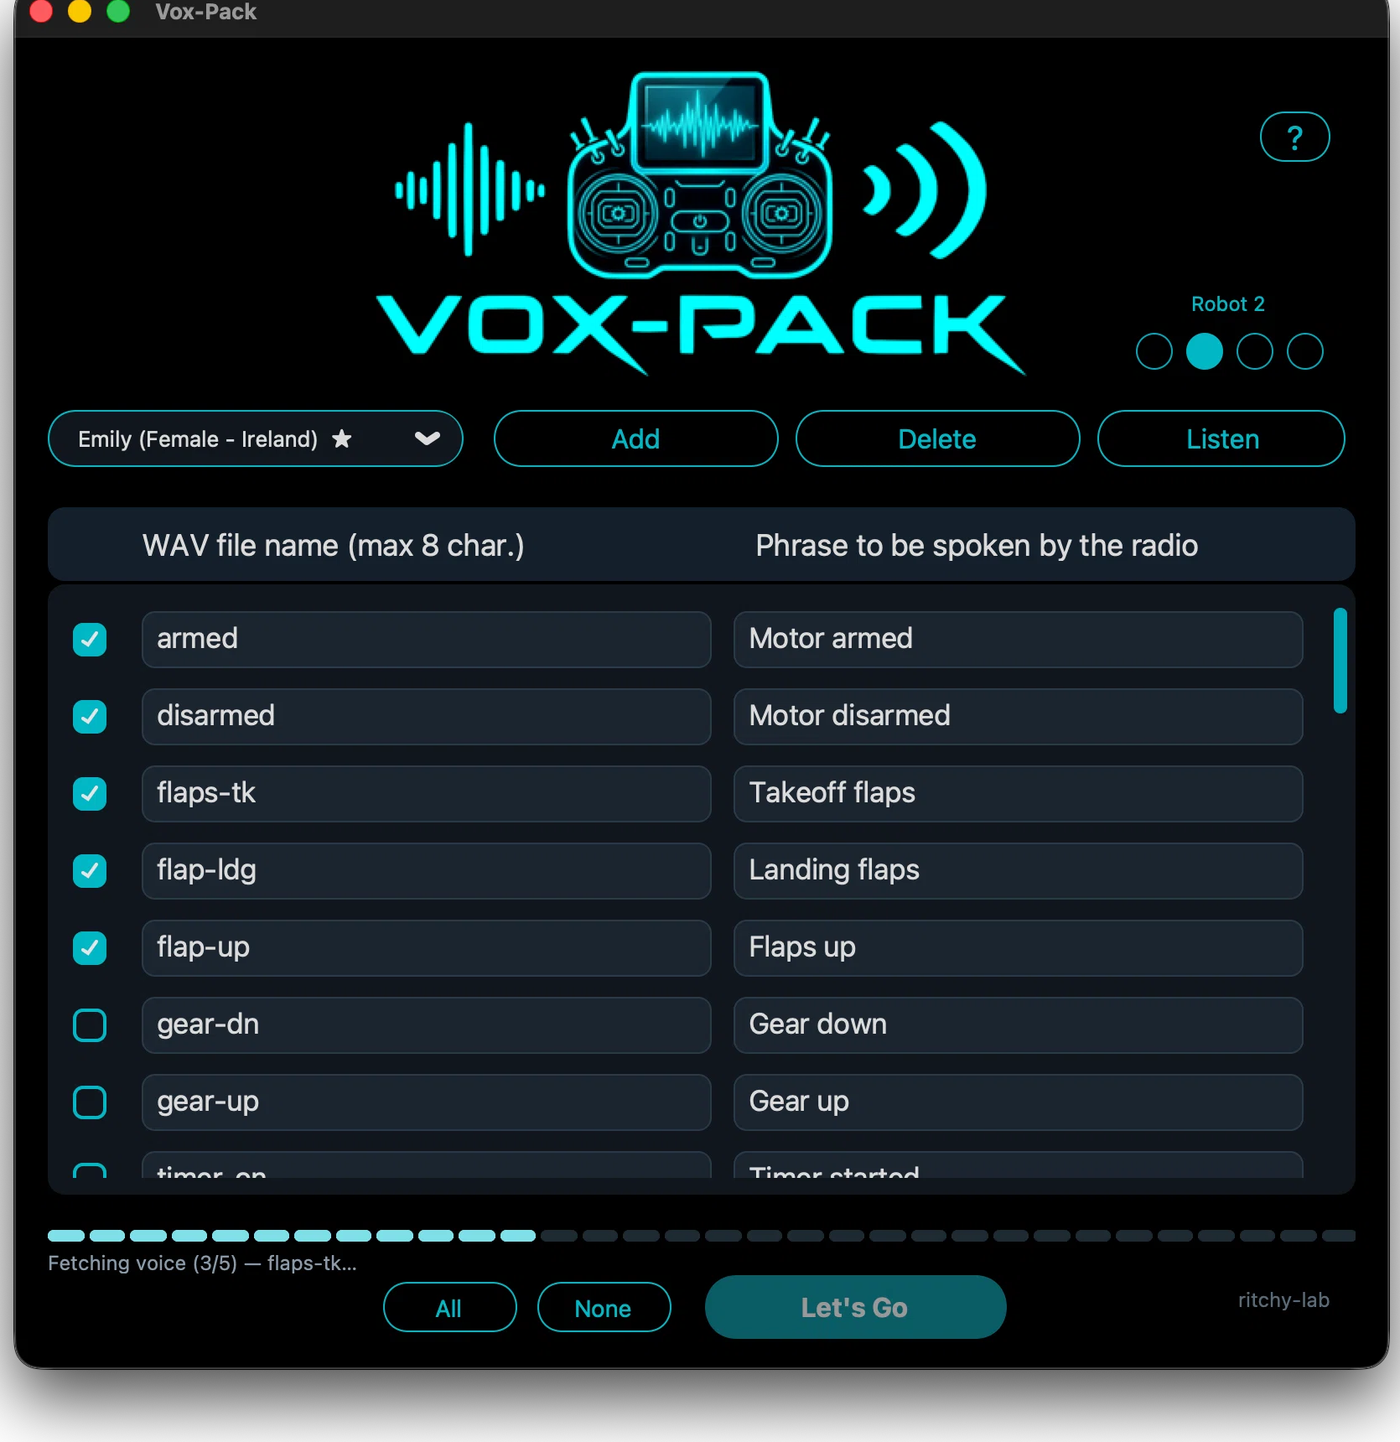
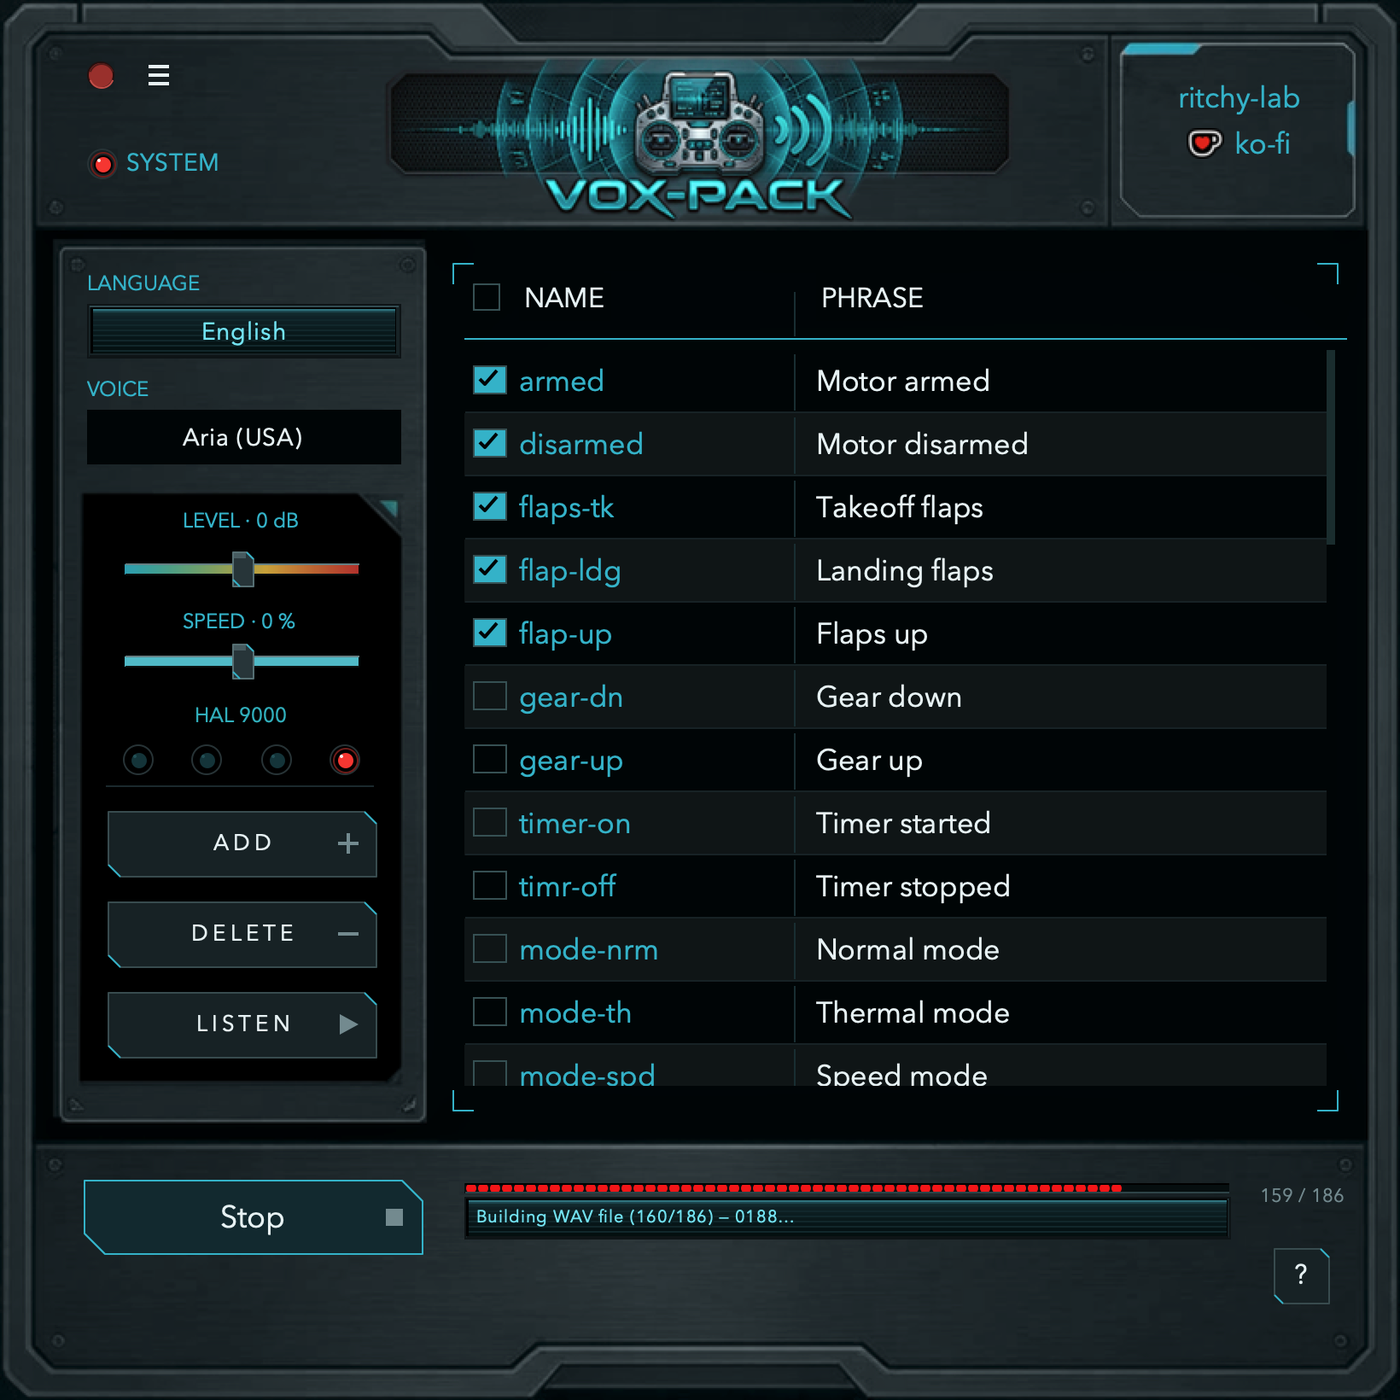
Vox-Pack 2.0.0 : quinze langues, installeur Windows, Mac Intel
Accueil et pages fr/en/de : 68 voix dans quinze langues, sons système de la langue choisie, nouvel écran ; boutons vers l'installeur Windows, le zip Intel et la portable ; captures v2. À pousser après la release 2.0.0 (les liens Setup/Intel n'existent qu'à partir de là).

diff --git a/vox-pack/de/index.html b/vox-pack/de/index.html
@@ -4,7 +4,7 @@
   <meta charset="utf-8">
   <meta name="viewport" content="width=device-width, initial-scale=1">
   <title>Vox-Pack — geben Sie Ihrer Fernsteuerung eine Stimme</title>
-  <meta name="description" content="Vox-Pack erzeugt die Ansagen, die Ihre EdgeTX-Fernsteuerung im Flug spricht: 34 Stimmen, die 186 offiziellen System-Ansagen und Roboterstimmen. macOS und Windows, kostenlos und quelloffen.">
+  <meta name="description" content="Vox-Pack erzeugt die Ansagen, die Ihre EdgeTX-Fernsteuerung im Flug spricht: 68 Stimmen in fünfzehn Sprachen, die offiziellen System-Ansagen und Roboterstimmen. macOS und Windows, kostenlos und quelloffen.">
   <meta name="theme-color" content="#080d12">
   <link rel="icon" href="../../favicon.png" type="image/png">
   <link rel="canonical" href="https://ritchy-lab.github.io/vox-pack/de/">
@@ -17,14 +17,14 @@
   <meta property="og:site_name" content="ritchy-lab">
   <meta property="og:locale" content="de_DE">
   <meta property="og:title" content="Vox-Pack — geben Sie Ihrer Fernsteuerung eine Stimme">
-  <meta property="og:description" content="34 Stimmen, die offiziellen System-Ansagen von EdgeTX und Roboterstimmen. macOS und Windows, kostenlos und quelloffen.">
+  <meta property="og:description" content="68 Stimmen in fünfzehn Sprachen, die offiziellen System-Ansagen von EdgeTX und Roboterstimmen. macOS und Windows, kostenlos und quelloffen.">
   <meta property="og:url" content="https://ritchy-lab.github.io/vox-pack/de/">
   <meta property="og:image" content="https://ritchy-lab.github.io/assets/vox-pack-social.png">
   <meta property="og:image:width" content="1280">
   <meta property="og:image:height" content="640">
   <meta name="twitter:card" content="summary_large_image">
   <meta name="twitter:title" content="Vox-Pack — geben Sie Ihrer Fernsteuerung eine Stimme">
-  <meta name="twitter:description" content="34 Stimmen, die offiziellen System-Ansagen von EdgeTX und Roboterstimmen. macOS und Windows.">
+  <meta name="twitter:description" content="68 Stimmen in fünfzehn Sprachen, die offiziellen System-Ansagen von EdgeTX und Roboterstimmen. macOS und Windows.">
   <meta name="twitter:image" content="https://ritchy-lab.github.io/assets/vox-pack-social.png">
 
   <link rel="stylesheet" href="../../style.css">
@@ -75,7 +75,7 @@
       Für macOS herunterladen
     </a>
     <a class="btn secondary"
-       href="https://github.com/ritchy-lab/Vox-Pack/releases/latest/download/Vox-Pack.exe">
+       href="https://github.com/ritchy-lab/Vox-Pack/releases/latest/download/Vox-Pack-Setup.exe">
       Für Windows herunterladen
     </a>
     <a class="btn secondary"
@@ -85,6 +85,11 @@
     </a>
   </div>
 
+  <p class="note">
+    Intel-Mac: <a href="https://github.com/ritchy-lab/Vox-Pack/releases/latest/download/Vox-Pack-Intel.zip">Vox-Pack-Intel.zip</a>
+    · Windows portabel: <a href="https://github.com/ritchy-lab/Vox-Pack/releases/latest/download/Vox-Pack.exe">Vox-Pack.exe</a>
+  </p>
+
   <div class="shot vox">
     <img src="../../assets/vox-pack-app-de.png"
          alt="Vox-Pack auf Deutsch" loading="lazy">
@@ -92,17 +97,27 @@
 
   <section class="features" aria-label="Funktionen">
     <div class="feature">
-      <h3>34 Stimmen</h3>
+      <h3>68 Stimmen, fünfzehn Sprachen</h3>
       <p>
-        11 französische, 19 englische und 4 deutsche Stimmen, darunter die
-        offiziellen von EdgeTX: Denise (★), Emily (★) und Katja (★).
+        Vom Französischen bis zum Ukrainischen, über Japanisch und Chinesisch:
+        68 Stimmen in fünfzehn Sprachen, darunter die offiziellen von EdgeTX —
+        Denise (★), Emily (★) und Katja (★).
+      </p>
+    </div>
+    <div class="feature">
+      <h3>Ein neuer Bildschirm</h3>
+      <p>
+        Gezeichnete Liste, runde Anzeige, Roboter- und HAL-Lichter,
+        integrierte Hilfe: Die Anwendung wurde neu gestaltet, und jede Sprache
+        behält ihre eigene Liste.
       </p>
     </div>
     <div class="feature">
       <h3>System-Ansagen von EdgeTX</h3>
       <p>
-        Die 186 SYSTEM-Ansagen auf Französisch (212 auf Englisch, 211 auf
-        Deutsch) mit der gewählten Stimme, in einem Ordner
+        Die offiziellen SYSTEM-Ansagen der gewählten Sprache (186 auf
+        Französisch, 212 auf Englisch, 211 auf Deutsch und die der anderen
+        Sprachen) mit der gewählten Stimme, in einem Ordner
         <code>SYSTEM/</code>, fertig für die SD-Karte.
       </p>
     </div>
@@ -133,8 +148,8 @@
   <p class="note">
     Für das Erzeugen der Stimmen ist eine Internetverbindung nötig (der Dienst
     von Microsoft). Die erzeugten Dateien bleiben auf Ihrer SD-Karte und
-    funktionieren offline. Die Anwendung gibt es auf Französisch, Englisch und
-    Deutsch.
+    funktionieren offline. Die Anwendung gibt es in fünfzehn Sprachen; sie
+    startet in der Sprache Ihres Computers.
   </p>
 
   <p class="note">

diff --git a/vox-pack/index.html b/vox-pack/index.html
@@ -4,7 +4,7 @@
   <meta charset="utf-8">
   <meta name="viewport" content="width=device-width, initial-scale=1">
   <title>Vox-Pack — la voix de ta radio EdgeTX</title>
-  <meta name="description" content="Vox-Pack crée les fichiers de voix de ta radio EdgeTX : 34 voix, les 186 sons système officiels et des voix de robot. macOS et Windows, gratuit et open source.">
+  <meta name="description" content="Vox-Pack crée les fichiers de voix de ta radio EdgeTX : 68 voix dans quinze langues, les sons système officiels et des voix de robot. macOS et Windows, gratuit et open source.">
   <meta name="theme-color" content="#080d12">
   <link rel="icon" href="../favicon.png" type="image/png">
   <link rel="canonical" href="https://ritchy-lab.github.io/vox-pack/">
@@ -17,14 +17,14 @@
   <meta property="og:site_name" content="ritchy-lab">
   <meta property="og:locale" content="fr_FR">
   <meta property="og:title" content="Vox-Pack — la voix de ta radio EdgeTX">
-  <meta property="og:description" content="34 voix, les 186 sons système officiels d'EdgeTX et des voix de robot. macOS et Windows, gratuit et open source.">
+  <meta property="og:description" content="68 voix dans quinze langues, les sons système officiels d'EdgeTX et des voix de robot. macOS et Windows, gratuit et open source.">
   <meta property="og:url" content="https://ritchy-lab.github.io/vox-pack/">
   <meta property="og:image" content="https://ritchy-lab.github.io/assets/vox-pack-social.png">
   <meta property="og:image:width" content="1280">
   <meta property="og:image:height" content="640">
   <meta name="twitter:card" content="summary_large_image">
   <meta name="twitter:title" content="Vox-Pack — la voix de ta radio EdgeTX">
-  <meta name="twitter:description" content="34 voix, les sons système officiels d'EdgeTX et des voix de robot. macOS et Windows.">
+  <meta name="twitter:description" content="68 voix dans quinze langues, les sons système officiels d'EdgeTX et des voix de robot. macOS et Windows.">
   <meta name="twitter:image" content="https://ritchy-lab.github.io/assets/vox-pack-social.png">
 
   <link rel="stylesheet" href="../style.css">
@@ -75,7 +75,7 @@
       Télécharger pour macOS
     </a>
     <a class="btn secondary"
-       href="https://github.com/ritchy-lab/Vox-Pack/releases/latest/download/Vox-Pack.exe">
+       href="https://github.com/ritchy-lab/Vox-Pack/releases/latest/download/Vox-Pack-Setup.exe">
       Télécharger pour Windows
     </a>
     <a class="btn secondary"
@@ -85,6 +85,11 @@
     </a>
   </div>
 
+  <p class="note">
+    Mac Intel : <a href="https://github.com/ritchy-lab/Vox-Pack/releases/latest/download/Vox-Pack-Intel.zip">Vox-Pack-Intel.zip</a>
+    · Windows portable : <a href="https://github.com/ritchy-lab/Vox-Pack/releases/latest/download/Vox-Pack.exe">Vox-Pack.exe</a>
+  </p>
+
   <div class="shot vox">
     <img src="../assets/vox-pack-app-fr.png"
          alt="Capture d'écran de Vox-Pack en français" loading="lazy">
@@ -92,17 +97,26 @@
 
   <section class="features" aria-label="Fonctionnalités">
     <div class="feature">
-      <h3>34 voix</h3>
+      <h3>68 voix, quinze langues</h3>
       <p>
-        11 voix françaises, 19 anglaises et 4 allemandes, dont les officielles
-        d'EdgeTX : Denise (★), Emily (★) et Katja (★).
+        Du français à l'ukrainien, en passant par le japonais et le chinois :
+        68 voix dans quinze langues, dont les officielles d'EdgeTX — Denise
+        (★), Emily (★) et Katja (★).
+      </p>
+    </div>
+    <div class="feature">
+      <h3>Un nouvel écran</h3>
+      <p>
+        Liste dessinée, jauge à ronds, voyants Robot et HAL, aide intégrée :
+        l'application a été redessinée, et chaque langue garde sa propre liste.
       </p>
     </div>
     <div class="feature">
       <h3>Les sons système d'EdgeTX</h3>
       <p>
-        Les 186 annonces SYSTEM en français (212 en anglais, 211 en allemand), avec la voix
-        choisie, dans un dossier <code>SYSTEM/</code> prêt pour la carte SD.
+        Les annonces SYSTEM officielles de la langue choisie (186 en français,
+        212 en anglais, 211 en allemand, et celles des autres langues), avec la
+        voix choisie, dans un dossier <code>SYSTEM/</code> prêt pour la carte SD.
       </p>
     </div>
     <div class="feature">
@@ -131,7 +145,8 @@
   <p class="note">
     Une connexion Internet est nécessaire pour créer les voix (le service de
     Microsoft Edge). Les fichiers produits, eux, restent sur ta carte SD et
-    fonctionnent hors ligne. L'application est en français, en anglais et en allemand.
+    fonctionnent hors ligne. L'application est en quinze langues ; elle
+    s'ouvre dans celle de ton ordinateur.
   </p>
 
   <p class="note">

diff --git a/vox-pack/en/index.html b/vox-pack/en/index.html
@@ -4,7 +4,7 @@
   <meta charset="utf-8">
   <meta name="viewport" content="width=device-width, initial-scale=1">
   <title>Vox-Pack — give your radio a voice</title>
-  <meta name="description" content="Vox-Pack creates the voice files your EdgeTX radio speaks: 34 voices, the 186 official system sounds and robot voices. macOS and Windows, free and open source.">
+  <meta name="description" content="Vox-Pack creates the voice files your EdgeTX radio speaks: 68 voices in fifteen languages, the official system sounds and robot voices. macOS and Windows, free and open source.">
   <meta name="theme-color" content="#080d12">
   <link rel="icon" href="../../favicon.png" type="image/png">
   <link rel="canonical" href="https://ritchy-lab.github.io/vox-pack/en/">
@@ -17,14 +17,14 @@
   <meta property="og:site_name" content="ritchy-lab">
   <meta property="og:locale" content="en_US">
   <meta property="og:title" content="Vox-Pack — give your radio a voice">
-  <meta property="og:description" content="34 voices, the 186 official EdgeTX system sounds and robot voices. macOS and Windows, free and open source.">
+  <meta property="og:description" content="68 voices in fifteen languages, the official EdgeTX system sounds and robot voices. macOS and Windows, free and open source.">
   <meta property="og:url" content="https://ritchy-lab.github.io/vox-pack/en/">
   <meta property="og:image" content="https://ritchy-lab.github.io/assets/vox-pack-social.png">
   <meta property="og:image:width" content="1280">
   <meta property="og:image:height" content="640">
   <meta name="twitter:card" content="summary_large_image">
   <meta name="twitter:title" content="Vox-Pack — give your radio a voice">
-  <meta name="twitter:description" content="34 voices, the official EdgeTX system sounds and robot voices. macOS and Windows.">
+  <meta name="twitter:description" content="68 voices in fifteen languages, the official EdgeTX system sounds and robot voices. macOS and Windows.">
   <meta name="twitter:image" content="https://ritchy-lab.github.io/assets/vox-pack-social.png">
 
   <link rel="stylesheet" href="../../style.css">
@@ -74,7 +74,7 @@
       Download for macOS
     </a>
     <a class="btn secondary"
-       href="https://github.com/ritchy-lab/Vox-Pack/releases/latest/download/Vox-Pack.exe">
+       href="https://github.com/ritchy-lab/Vox-Pack/releases/latest/download/Vox-Pack-Setup.exe">
       Download for Windows
     </a>
     <a class="btn secondary"
@@ -84,6 +84,11 @@
     </a>
   </div>
 
+  <p class="note">
+    Intel Mac: <a href="https://github.com/ritchy-lab/Vox-Pack/releases/latest/download/Vox-Pack-Intel.zip">Vox-Pack-Intel.zip</a>
+    · Windows portable: <a href="https://github.com/ritchy-lab/Vox-Pack/releases/latest/download/Vox-Pack.exe">Vox-Pack.exe</a>
+  </p>
+
   <div class="shot vox">
     <img src="../../assets/vox-pack-app-en.png"
          alt="Vox-Pack screenshot in English" loading="lazy">
@@ -91,17 +96,27 @@
 
   <section class="features" aria-label="Features">
     <div class="feature">
-      <h3>34 voices</h3>
+      <h3>68 voices, fifteen languages</h3>
       <p>
-        11 French, 19 English and 4 German voices, including EdgeTX's official
-        ones: Denise (★), Emily (★) and Katja (★).
+        From French to Ukrainian, via Japanese and Chinese: 68 voices in
+        fifteen languages, including EdgeTX's official ones — Denise (★),
+        Emily (★) and Katja (★).
+      </p>
+    </div>
+    <div class="feature">
+      <h3>A new screen</h3>
+      <p>
+        Drawn list, round gauge, Robot and HAL lights, built-in help: the app
+        has been redesigned, and each language keeps its own list.
       </p>
     </div>
     <div class="feature">
       <h3>EdgeTX system sounds</h3>
       <p>
-        The 186 SYSTEM announcements in French (212 in English, 211 in German), with the
-        chosen voice, in a <code>SYSTEM/</code> folder ready for the SD card.
+        The official SYSTEM announcements of the chosen language (186 in
+        French, 212 in English, 211 in German, and those of the other
+        languages), with the chosen voice, in a <code>SYSTEM/</code> folder
+        ready for the SD card.
       </p>
     </div>
     <div class="feature">
@@ -130,7 +145,8 @@
   <p class="note">
     An Internet connection is required to create the voices (the Microsoft
     Edge service). The generated files stay on your SD card and work offline.
-    The app is available in French, English and German.
+    The app comes in fifteen languages; it opens in the language of your
+    computer.
   </p>
 
   <p class="note">

diff --git a/index.html b/index.html
@@ -56,8 +56,8 @@
       </div>
       <h2>Vox-Pack</h2>
       <p>
-        La voix de ta radio EdgeTX : 34 voix en trois langues, les 186 sons
-        système officiels et, pour le fun, des voix de robot.
+        La voix de ta radio EdgeTX : 68 voix dans quinze langues, les sons
+        système officiels de chaque langue et, pour le fun, des voix de robot.
       </p>
       <div class="badges">
         <span class="badge">macOS</span>
@@ -69,10 +69,13 @@
           Télécharger macOS
         </a>
         <a class="btn secondary"
-           href="https://github.com/ritchy-lab/Vox-Pack/releases/latest/download/Vox-Pack.exe">
+           href="https://github.com/ritchy-lab/Vox-Pack/releases/latest/download/Vox-Pack-Setup.exe">
           Windows
         </a>
       </div>
+      <p class="note">
+        <a href="https://github.com/ritchy-lab/Vox-Pack/releases/latest/download/Vox-Pack-Intel.zip">Mac Intel ?</a>
+      </p>
       <div class="links">
         <a href="vox-pack/index.html">En savoir plus</a>
         <a href="https://github.com/ritchy-lab/Vox-Pack" target="_blank" rel="noopener">GitHub</a>

diff --git a/README.md b/README.md
@@ -16,8 +16,12 @@ Vox-Pack, USB-Floss et USB-Floss Magic.
 ## Mettre à jour
 
 - **Vox-Pack** : les boutons pointent vers
-  `releases/latest/download/Vox-Pack.zip` et `.../Vox-Pack.exe`.
+  `releases/latest/download/Vox-Pack.zip` (Apple Silicon),
+  `.../Vox-Pack-Intel.zip` (Mac Intel), `.../Vox-Pack-Setup.exe`
+  (l'installeur Windows) et `.../Vox-Pack.exe` (la version portable).
   Rien à changer à chaque version.
+  À publier **après** la 2.0.0 : les liens `Vox-Pack-Setup.exe` et
+  `Vox-Pack-Intel.zip` n'existent qu'à partir de cette version.
 - **USB-Floss** et **USB-Floss Magic** : les boutons pointent vers leur page
   `releases/latest`. Rien à changer non plus.
 - Les textes et les captures sont dans les pages : à modifier si nécessaire.
